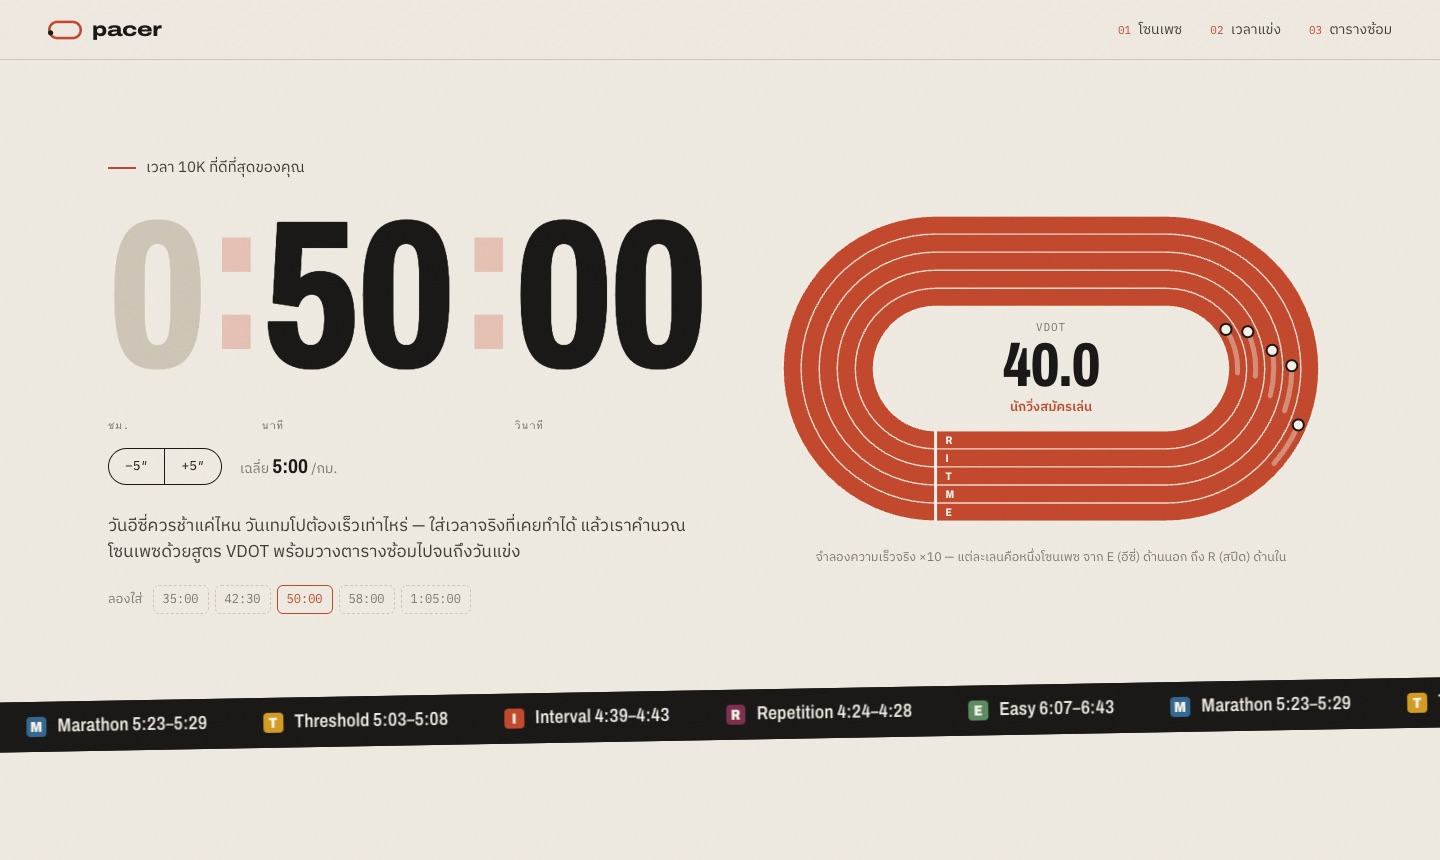
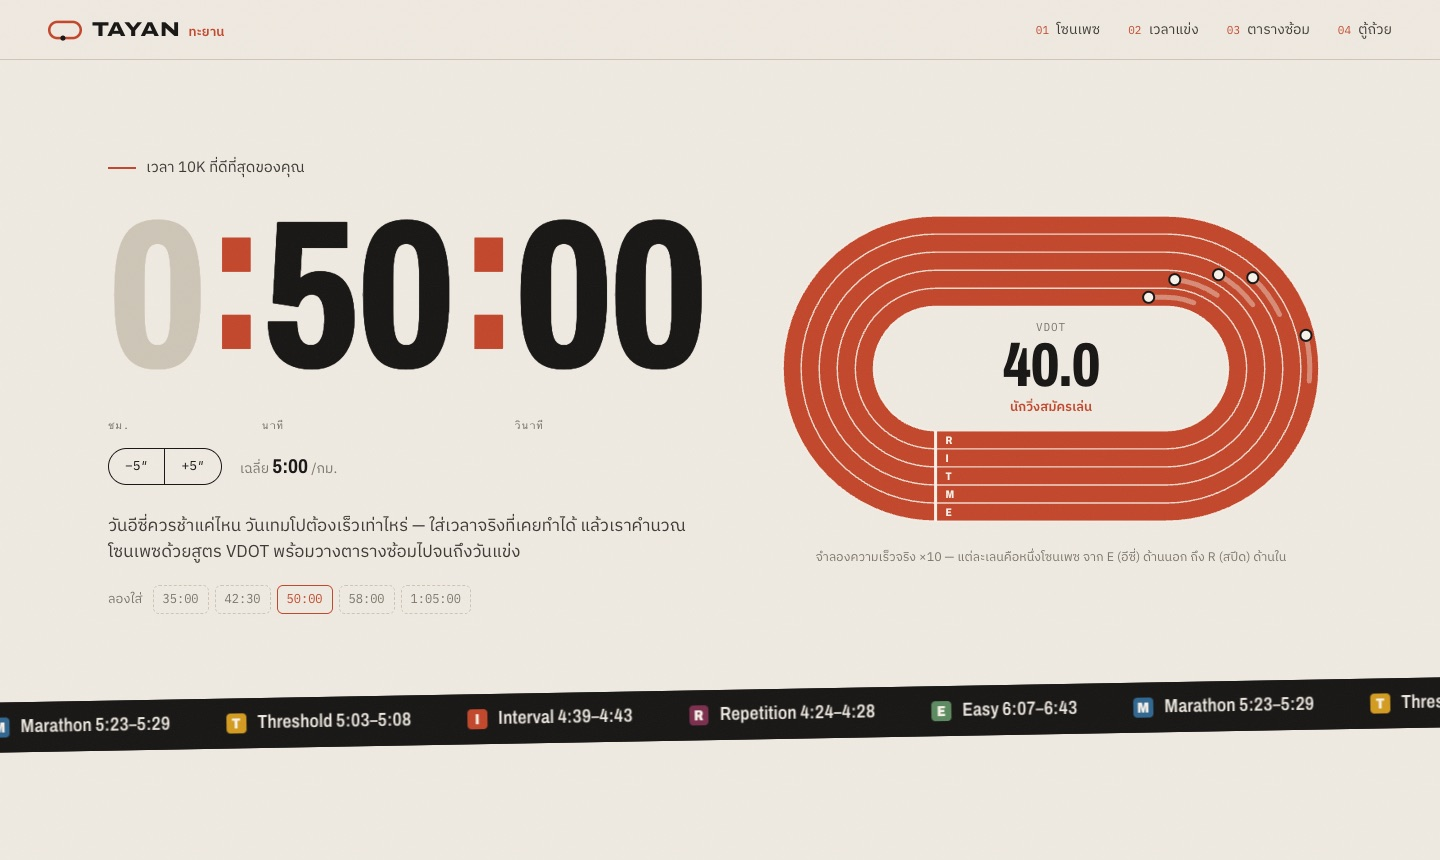
Rename app to TAYAN (ทะยาน)

diff --git a/src/App.tsx b/src/App.tsx
@@ -9,6 +9,7 @@ import { TrophyCase } from './components/TrophyCase'
 import { fmtPace, fmtTime, predictSeconds, vdotFrom, zonesFor } from './lib/vdot'
 import { nextMonday } from './lib/plan'
 
+// storage keys keep the old 'pacer' prefix so existing users don't lose their data
 const STORE = 'pacer:v1'
 const MIN_PB = 26 * 60
 const MAX_PB = 105 * 60
@@ -77,14 +78,16 @@ export default function App() {
   return (
     <>
       <header className="topbar">
-        <a href="#top" className="brand" aria-label="Pacer">
+        <a href="#top" className="brand" aria-label="TAYAN ทะยาน">
           <svg viewBox="0 0 40 22" aria-hidden>
             <rect x="1.5" y="1.5" width="37" height="19" rx="9.5" />
             <circle r="3">
               <animateMotion dur="6s" repeatCount="indefinite" path="M 12 20.5 H 28 A 9.5 9.5 0 0 0 28 1.5 H 12 A 9.5 9.5 0 0 0 12 20.5 Z" />
             </circle>
           </svg>
-          pacer
+          <span className="brand-name">
+            TAYAN<small>ทะยาน</small>
+          </span>
         </a>
         <nav>
           <a href="#zones">
@@ -205,7 +208,7 @@ export default function App() {
           คำนวณจากโมเดล VDOT ของ Jack Daniels &amp; Jimmy Gilbert — เป็นแนวทาง ไม่ใช่กฎตายตัว อากาศร้อนชื้นแบบบ้านเรา
           เพซช้าลง 10–20 วิ/กม. ถือว่าปกติ
         </p>
-        <span className="mono-label">pacer · ซ้อมให้ถูกเพซ</span>
+        <span className="mono-label">tayan · ซ้อมให้ถูกเพซ แล้วทะยานไปข้างหน้า</span>
       </footer>
     </>
   )

diff --git a/src/lib/races.ts b/src/lib/races.ts
@@ -96,11 +96,11 @@ export function bestAt(races: Race[], dist: RaceKey): Race | undefined {
 }
 
 export function exportRaces(races: Race[]) {
-  const blob = new Blob([JSON.stringify({ app: 'pacer', version: 1, races }, null, 2)], { type: 'application/json' })
+  const blob = new Blob([JSON.stringify({ app: 'tayan', version: 1, races }, null, 2)], { type: 'application/json' })
   const url = URL.createObjectURL(blob)
   const a = document.createElement('a')
   a.href = url
-  a.download = `pacer-trophies-${new Date().toISOString().slice(0, 10)}.json`
+  a.download = `tayan-trophies-${new Date().toISOString().slice(0, 10)}.json`
   a.click()
   URL.revokeObjectURL(url)
 }

diff --git a/src/components/TrophyCase.tsx b/src/components/TrophyCase.tsx
@@ -70,7 +70,7 @@ export function TrophyCase({ onUseVdot }: { onUseVdot: (vdot: number) => void })
   const onImport = async (file: File) => {
     const incoming = parseImport(await file.text())
     if (!incoming) {
-      setToast({ text: 'ไฟล์นี้อ่านไม่ได้ — ต้องเป็นไฟล์ที่ export จาก pacer', pb: false })
+      setToast({ text: 'ไฟล์นี้อ่านไม่ได้ — ต้องเป็นไฟล์ที่ export จาก TAYAN', pb: false })
       return
     }
     setRaces((prev) => mergeRaces(prev, incoming))

diff --git a/index.html b/index.html
@@ -13,7 +13,7 @@
       href="https://fonts.googleapis.com/css2?family=Archivo:wdth,wght@62..125,400..900&family=IBM+Plex+Mono:wght@400;500&family=IBM+Plex+Sans+Thai:wght@300;400;500;600;700&display=swap"
       rel="stylesheet"
     />
-    <title>Pacer — เพซและตารางซ้อมจาก 10K</title>
+    <title>TAYAN ทะยาน — เพซและตารางซ้อมจาก 10K</title>
   </head>
   <body>
     <div id="root"></div>

diff --git a/src/styles.css b/src/styles.css
@@ -150,6 +150,20 @@ button {
   color: var(--ink);
   text-decoration: none;
 }
+.brand-name {
+  display: inline-flex;
+  align-items: baseline;
+  gap: 8px;
+  letter-spacing: 0.04em;
+}
+.brand-name small {
+  font-family: var(--body);
+  font-stretch: 100%;
+  font-weight: 600;
+  font-size: 13px;
+  letter-spacing: 0;
+  color: var(--track);
+}
 .brand svg {
   width: 34px;
   height: 20px;

diff --git a/README.md b/README.md
@@ -2,7 +2,7 @@
 
 <img src="public/favicon.svg" width="64" alt="" />
 
-# pacer
+# TAYAN <sub>ทะยาน</sub>
 
 **ใส่เวลา 10K ที่ดีที่สุด — ได้เพซซ้อมทุกโซนและตารางซ้อมถึงวันแข่ง**
 
@@ -20,7 +20,7 @@ Turn your best 10K time into training paces and a week-by-week plan.
 
 <picture>
   <source media="(prefers-color-scheme: dark)" srcset="docs/hero-dark.jpg" />
-  <img src="docs/hero-light.jpg" alt="หน้าแรกของ pacer: ช่องกรอกเวลา 10K และลู่วิ่งจำลองความเร็วของแต่ละโซน" />
+  <img src="docs/hero-light.jpg" alt="หน้าแรกของ TAYAN: ช่องกรอกเวลา 10K และลู่วิ่งจำลองความเร็วของแต่ละโซน" />
 </picture>
 
 </div>
@@ -46,6 +46,9 @@ Turn your best 10K time into training paces and a week-by-week plan.
   </tr>
   <tr>
     <td><img src="docs/plan.jpg" alt="ตัวสร้างตารางซ้อมและกราฟระยะรายสัปดาห์" /></td>
+  </tr>
+  <tr>
+    <td colspan="2"><img src="docs/trophy.jpg" alt="ตู้ถ้วยรางวัล: การ์ดบิบของแต่ละสนามพร้อมป้าย PB" /></td>
   </tr>
 </table>
 
